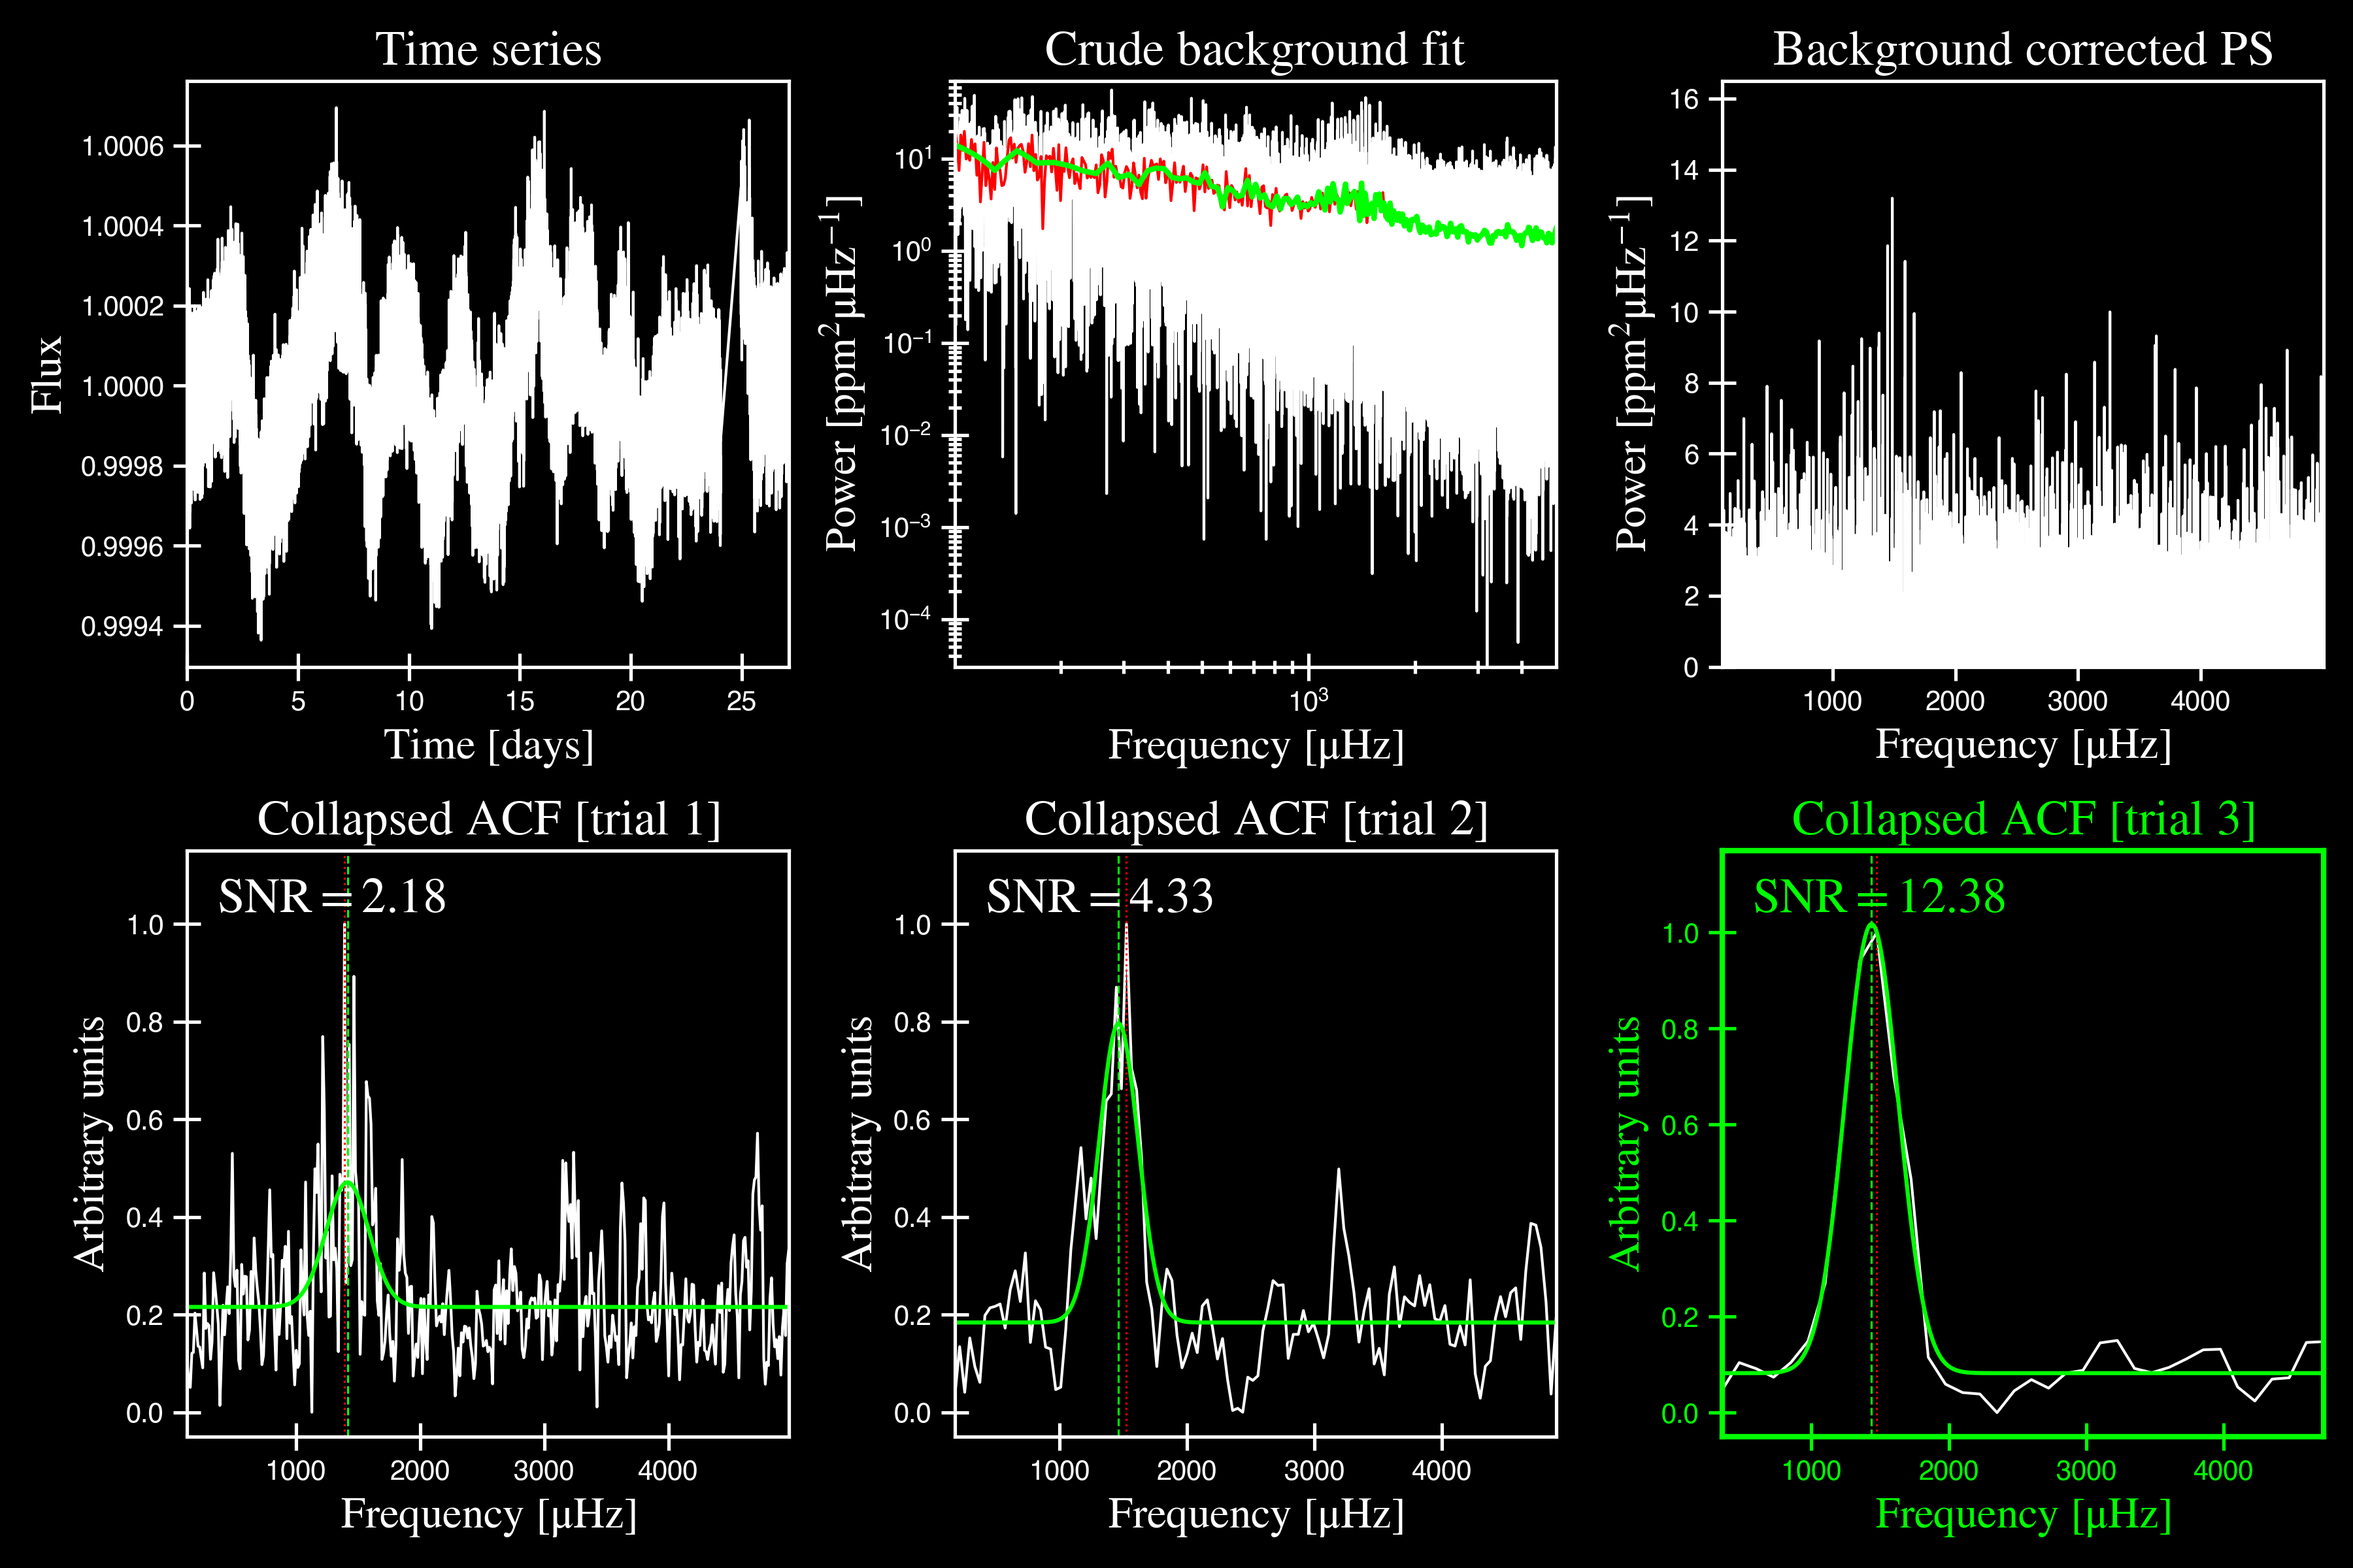
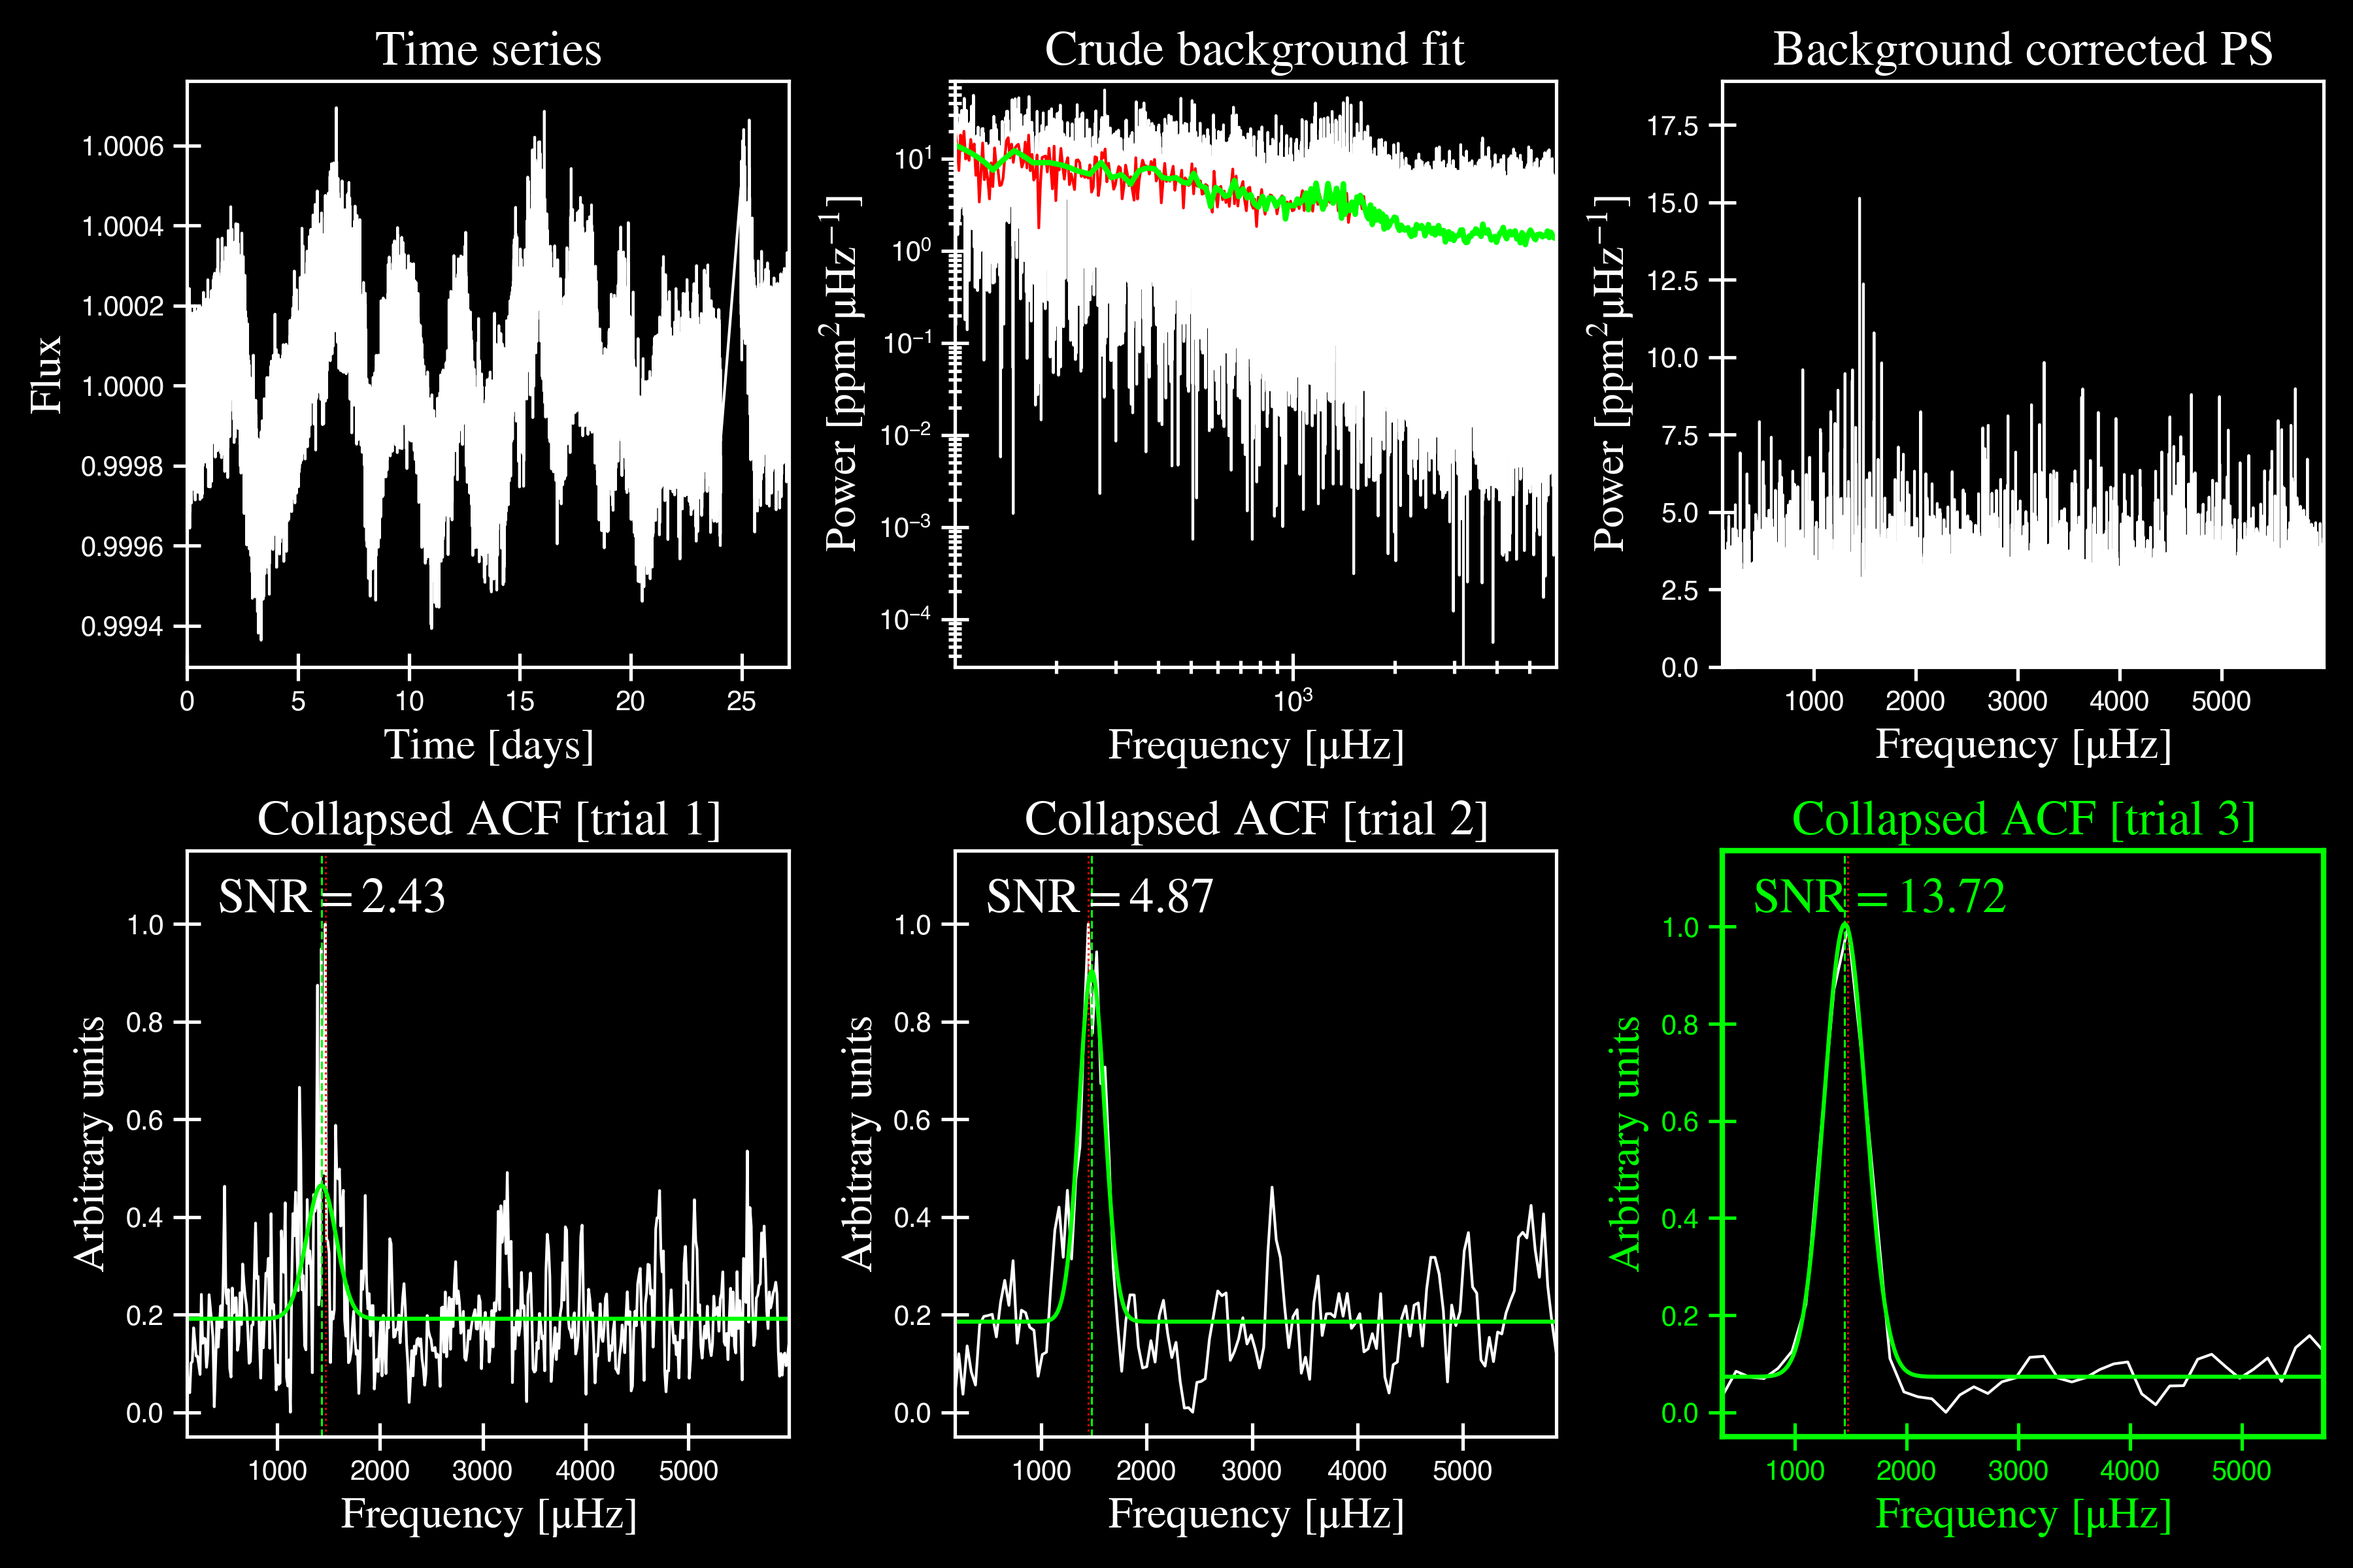
kdfjda;lkjfd

diff --git a/docs/quickstart.rst b/docs/quickstart.rst
@@ -162,16 +162,16 @@ Since none of this happened, we can move on to the next step.
 .. code-block::
 
     -----------------------------------------------------------
-    PS binned to 173 datapoints
+    PS binned to 228 datapoints
     
     Numax estimates
     ---------------
-    Numax estimate 1: 1416.12 +/- 86.91
-    S/N: 2.18
-    Numax estimate 2: 1464.42 +/- 76.62
-    S/N: 4.33
-    Numax estimate 3: 1438.28 +/- 97.24
-    S/N: 12.38
+    Numax estimate 1: 1440.10 +/- 81.29
+    S/N: 2.01
+    Numax estimate 2: 1513.01 +/- 50.24
+    S/N: 4.47
+    Numax estimate 3: 1466.28 +/- 94.05
+    S/N: 9.84
     Selecting model 3
     -----------------------------------------------------------
 
@@ -203,7 +203,7 @@ this step the next time that the star is processed.
    :header: "stars", "numax", "dnu", "snr"
    :widths: 20, 20, 20, 20
 
-   1435467, 1438.27561061044, 72.3140769912867, 12.3801364686659
+   1435467, 1466.27531634578, 73.433876222636, 9.83548305222251
 
 
 .. _quickstart-script-steps-three:
@@ -216,25 +216,41 @@ this step the next time that the star is processed.
     -----------------------------------------------------------
     GLOBAL FIT
     -----------------------------------------------------------
-    PS binned to 335 data points
+    PS binned to 333 data points
     
     Background model
     ----------------
     Comparing 6 different models:
     Model 0: 0 Harvey-like component(s) + white noise fixed
-     BIC = 981.74 | AIC = 2.93
+     BIC = 981.66 | AIC = 2.95
     Model 1: 0 Harvey-like component(s) + white noise term
-     BIC = 1009.29 | AIC = 3.00
+     BIC = 1009.56 | AIC = 3.02
     Model 2: 1 Harvey-like component(s) + white noise fixed
-     BIC = 80.37 | AIC = 0.22
+     BIC = 80.27 | AIC = 0.22
     Model 3: 1 Harvey-like component(s) + white noise term
-     BIC = 90.83 | AIC = 0.24
+     BIC = 90.49 | AIC = 0.24
     Model 4: 2 Harvey-like component(s) + white noise fixed
-     BIC = 81.50 | AIC = 0.20
+     BIC = 81.46 | AIC = 0.20
     Model 5: 2 Harvey-like component(s) + white noise term
-     BIC = 94.42 | AIC = 0.22
-    Based on AIC statistic: model 4
+     BIC = 94.36 | AIC = 0.23
+    Based on BIC statistic: model 2
     -----------------------------------------------------------
+    Output parameters
+    -----------------------------------------------------------
+    numax_smooth: 1299.81 muHz
+    A_smooth: 1.74 ppm^2/muHz
+    numax_gauss: 1344.46 muHz
+    A_gauss: 1.50 ppm^2/muHz
+    FWHM: 294.83 muHz
+    dnu: 70.69 muHz
+    tau_1: 234.10 s
+    sigma_1: 87.40 ppm
+    -----------------------------------------------------------
+     - displaying figures
+     - press RETURN to exit
+     - combining results into single csv file
+    -----------------------------------------------------------
+
 
 A bulk of the heavy lifting is done in this main fitting routine, which is actually done 
 in two separate steps: 1) modeling and characterizing the stellar background and 2) determining 
@@ -261,10 +277,11 @@ implemented an automated background model seletion. After much trial and error, 
 seems to perform better for our purposes - which is now the default metric used (but can easily
 be changed, if desired).
 
-Measuring the granulation time scales is of course limited by the time series baseline but
-in general, we can resolve up to 3 Harvey-like components (or laws) at best (for now anyway). 
-For more information about the Harvey model, please see the original paper here_ as well as
-its application in context .
+Measuring the granulation time scales is obviously limited by the total observation baseline
+of the time series but in general, we can resolve up to 3 Harvey-like components (or laws) 
+at best (for now anyway). For more information about the Harvey model, please see the original 
+paper [1]_ as well as its application in context .
+
 Therefore we use all this information to guess how many we should observe and end up with
 
 .. math::
@@ -279,8 +296,12 @@ to observe oscillations in every star. **However, this is a work in progress and
 trying various methods to identify and quantify non-detections. Therefore if you have any ideas, 
 please reach out to us!** 
 
-Model 4 was selected for our example, consisting of two Harvey-like components, each with their characteristic
-time scale and amplitude. In this case, the white noise was *not* a free parameter.
+For this example we started with two Harvey-like components but the automated model selection
+preferred a simpler one consisting of a single Harvey law. In addition, the white noise was
+fixed and *not* a free parameter and hence, the final model had 3 less parameters than it started
+with. For posterity, we included the output if only a single iteration had been run (which we 
+recommend by default when analyzing a star for the first time). 
+
 
 .. image:: _static/quickstart/1435467_global.png
   :width: 680
@@ -295,21 +316,24 @@ If this was run in its default setting, with ``--mc`` = `1`, for a single iterat
 parameters would look like that below. **We urge folks to run new stars for a single step first 
 (ALWAYS) before running it several iterations to make sure everything looks ok.**
 
+**One final important note:** we chose to show this example since it is a perfect testament for
+why we do the fitting in two steps. You can see the estimate from the first module quoted a value
+close to 1500 microhertz but it still got the final value correct. Background fits and the order
+of operations *does* matter.
+
 
 .. csv-table:: 1435467 global parameters
    :header: "parameter", "value", "uncertainty"
    :widths: 20, 20, 20
 
-   numax_smooth, 1303.82549513, --
-   A_smooth, 1.6981881189944,--
-   numax_gauss, 1354.18609943197, --
-   A_gauss, 1.45587282712706, --
-   FWHM, 284.631831313442, --
-   dnu, 70.653293964844, --
-   tau_1, 1069.91765124738, --
-   sigma_1, 31.1026782311927, --
-   tau_2, 218.303624326155, --
-   sigma_2, 85.4836783903674, --
+   numax_smooth, 1299.81293631, --
+   A_smooth, 1.7443557750467,--
+   numax_gauss, 1344.46209196076, --
+   A_gauss, 1.49520571824331, --
+   FWHM, 294.828525018811, --
+   dnu, 70.686368232649, --
+   tau_1, 234.096929954605, --
+   sigma_1, 87.4003388422754, --
 
 
 .. note::
@@ -330,21 +354,40 @@ parameters would look like that below. **We urge folks to run new stars for a si
 .. code-block::
 
     -----------------------------------------------------------
+    GLOBAL FIT
+    -----------------------------------------------------------
+    PS binned to 333 data points
+    
+    Background model
+    ----------------
+    Comparing 6 different models:
+    Model 0: 0 Harvey-like component(s) + white noise fixed
+     BIC = 981.66 | AIC = 2.95
+    Model 1: 0 Harvey-like component(s) + white noise term
+     BIC = 1009.56 | AIC = 3.02
+    Model 2: 1 Harvey-like component(s) + white noise fixed
+     BIC = 80.27 | AIC = 0.22
+    Model 3: 1 Harvey-like component(s) + white noise term
+     BIC = 90.49 | AIC = 0.24
+    Model 4: 2 Harvey-like component(s) + white noise fixed
+     BIC = 81.46 | AIC = 0.20
+    Model 5: 2 Harvey-like component(s) + white noise term
+     BIC = 94.36 | AIC = 0.23
+    Based on BIC statistic: model 2
+    -----------------------------------------------------------
     Sampling routine:
     100%|███████████████████████████████████████| 200/200 [00:21<00:00,  9.23it/s]
     -----------------------------------------------------------
     Output parameters
     -----------------------------------------------------------
-    numax_smooth: 1303.83 +/- 65.19 muHz
-    A_smooth: 1.70 +/- 0.21 ppm^2/muHz
-    numax_gauss: 1354.19 +/- 43.04 muHz
-    A_gauss: 1.46 +/- 0.29 ppm^2/muHz
-    FWHM: 284.63 +/- 64.57 muHz
-    dnu: 70.65 +/- 0.81 muHz
-    tau_1: 1069.92 +/- 2121.15 s
-    sigma_1: 31.10 +/- 42.95 ppm
-    tau_2: 218.30 +/- 20.25 s
-    sigma_2: 85.48 +/- 3.68 ppm
+    numax_smooth: 1299.81 +/- 50.31 muHz
+    A_smooth: 1.74 +/- 0.21 ppm^2/muHz
+    numax_gauss: 1344.46 +/- 35.97 muHz
+    A_gauss: 1.50 +/- 0.24 ppm^2/muHz
+    FWHM: 294.83 +/- 68.78 muHz
+    dnu: 70.69 +/- 0.72 muHz
+    tau_1: 234.10 +/- 17.82 s
+    sigma_1: 87.40 +/- 2.54 ppm
     -----------------------------------------------------------
      - displaying figures
      - press RETURN to exit
@@ -352,6 +395,8 @@ parameters would look like that below. **We urge folks to run new stars for a si
     -----------------------------------------------------------
 
 Notice the difference in the printed parameters this time - they now have uncertainties!
+
+.. code-block::
 
 We include the progress bar in the sampling step iff the verbose output is `True` *and* ``pySYD`` is not 
 executed in parallel mode. This is hard-wired since the latter would produce a nightmare mess.
@@ -366,16 +411,14 @@ executed in parallel mode. This is hard-wired since the latter would produce a n
    :header: "parameter", "value", "uncertainty"
    :widths: 20, 20, 20
 
-   numax_smooth, 1303.82549513, 65.1861645150548
-   A_smooth, 1.6981881189944, 0.208329237417828
-   numax_gauss, 1354.18609943197, 43.0399300425255
-   A_gauss, 1.45587282712706, 0.286045233580998
-   FWHM, 284.631831313442, 64.5689284576161
-   dnu, 70.653293964844, 0.81171745376397
-   tau_1, 1069.91765124738, 2121.15050259705
-   sigma_1, 31.1026782311927, 42.9475567908216
-   tau_2, 218.303624326155, 20.2541392707925
-   sigma_2, 85.4836783903674, 3.68355287162928
+   numax_smooth, 1299.81293631, 50.3135930088401
+   A_smooth, 1.7443557750467, 0.206023287782047
+   numax_gauss, 1344.46209196076, 35.9718007557108
+   A_gauss, 1.49520571824331, 0.239359250395468
+   FWHM, 294.828525018811, 68.7801574556345
+   dnu, 70.686368232649, 0.724027370237817
+   tau_1, 234.096929954605, 17.8245695851712
+   sigma_1, 87.4003388422754, 2.54295662794715
 
 * matches expected output for model 4 selection - notice how there is no white noise term
 in the output. this is because the model preferred for this to be fixed
@@ -463,4 +506,4 @@ Ok, now that we have our desired settings and target, we can go ahead and proces
 References
 ##########
 
-.. [here] `Harvey (1985) <https://ui.adsabs.harvard.edu/abs/1985ESASP.235..199H>`_
+.. [1] `Harvey (1985) <https://ui.adsabs.harvard.edu/abs/1985ESASP.235..199H>`_

diff --git a/docs/usage/cli/examples.rst b/docs/usage/cli/examples.rst
@@ -44,15 +44,15 @@ High SNR: KIC 11618103
 
 KIC 11618103 is our most evolved example, an RGB star with numax of ~100 muHz.
 
-.. image:: _static/examples-11618103_excess.png
+.. image:: ../../_static/examples-11618103_excess.png
   :width: 680
   :alt: Find excess output plot for KIC 11618103.
 
-.. image:: _static/examples-11618103_background.png
+.. image:: ../../_static/examples-11618103_background.png
   :width: 680
   :alt: Fit background output plot for KIC 11618103.
 
-.. image:: _static/examples-11618103_samples.png
+.. image:: ../../_static/examples-11618103_samples.png
   :width: 680
   :alt: Distributions of Monte-Carlo samples for KIC 11618103.
 
@@ -80,15 +80,15 @@ breaks down every step and output for this example.
 
 KIC 1435467 is our least evolved example, with :math:`\rm \nu_{max} \sim 1300 \mu Hz`.
 
-.. image:: _static/examples-1435467_estimates.png
+.. image:: ../../_static/examples-1435467_estimates.png
   :width: 680
   :alt: Find excess output plot for KIC 11618103.
 
-.. image:: _static/examples-1435467_global.png
+.. image:: ../../_static/examples-1435467_global.png
   :width: 680
   :alt: Fit background output plot for KIC 11618103.
 
-.. image:: _static/examples-1435467_samples.png
+.. image:: ../../_static/examples-1435467_samples.png
   :width: 680
   :alt: Distributions of Monte-Carlo samples for KIC 11618103.
 
